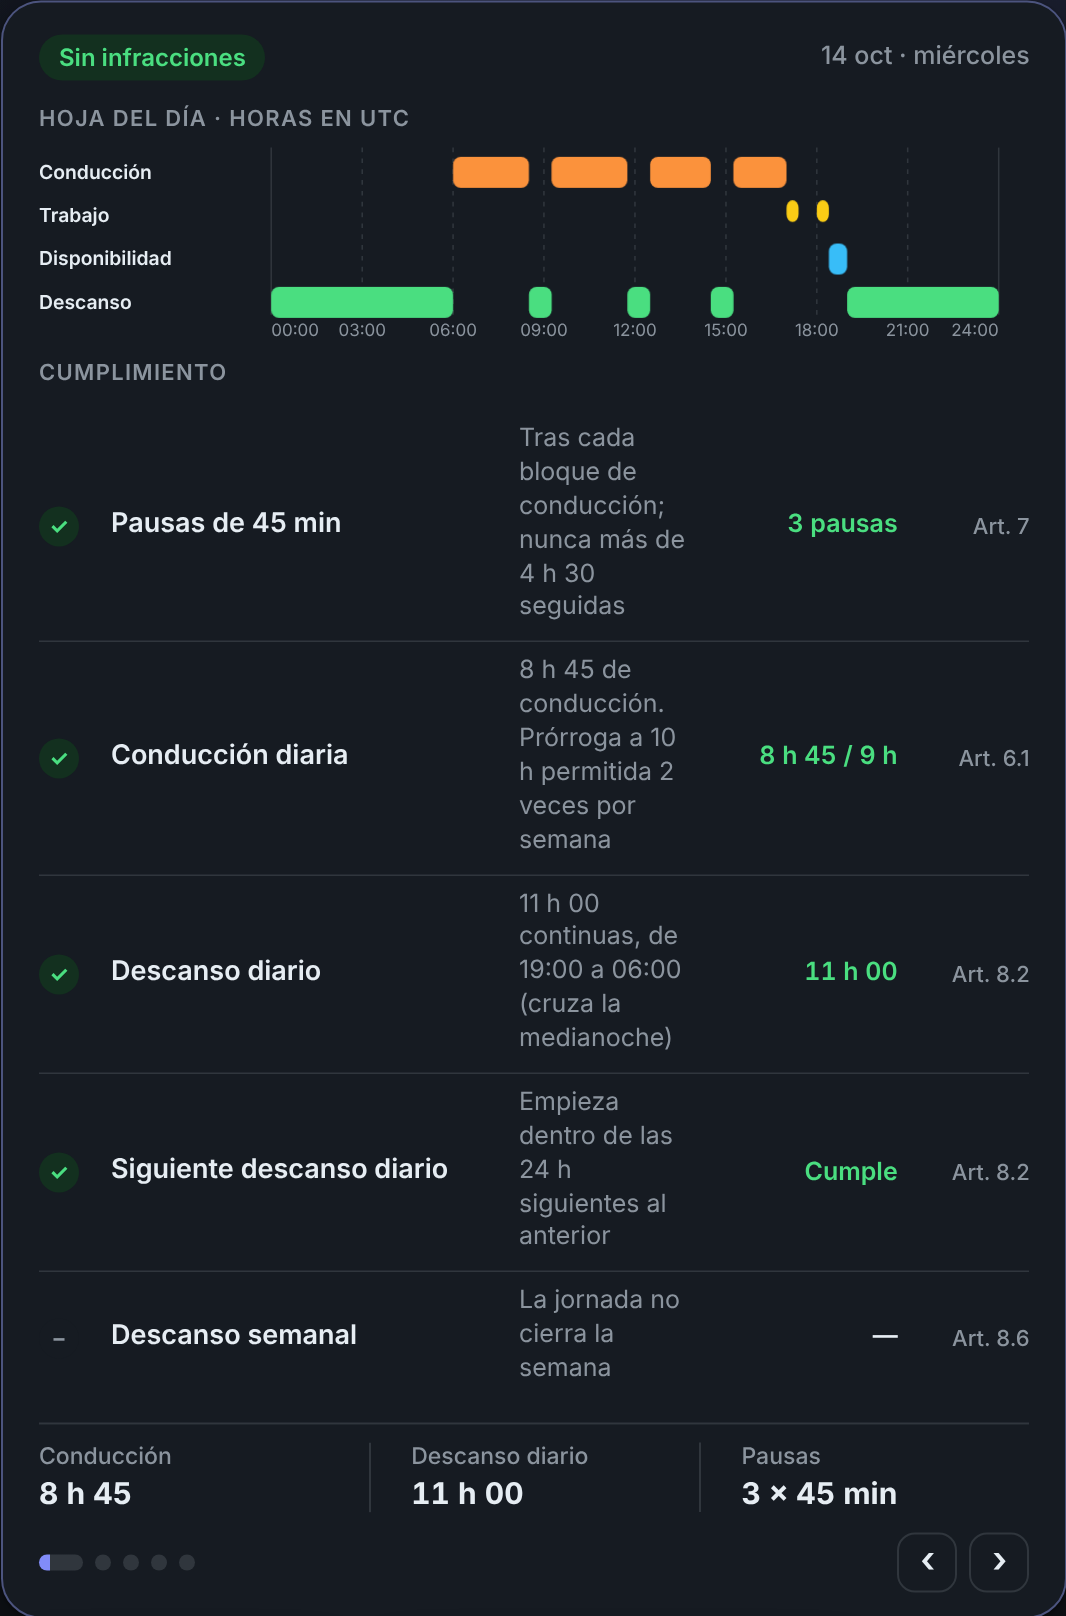
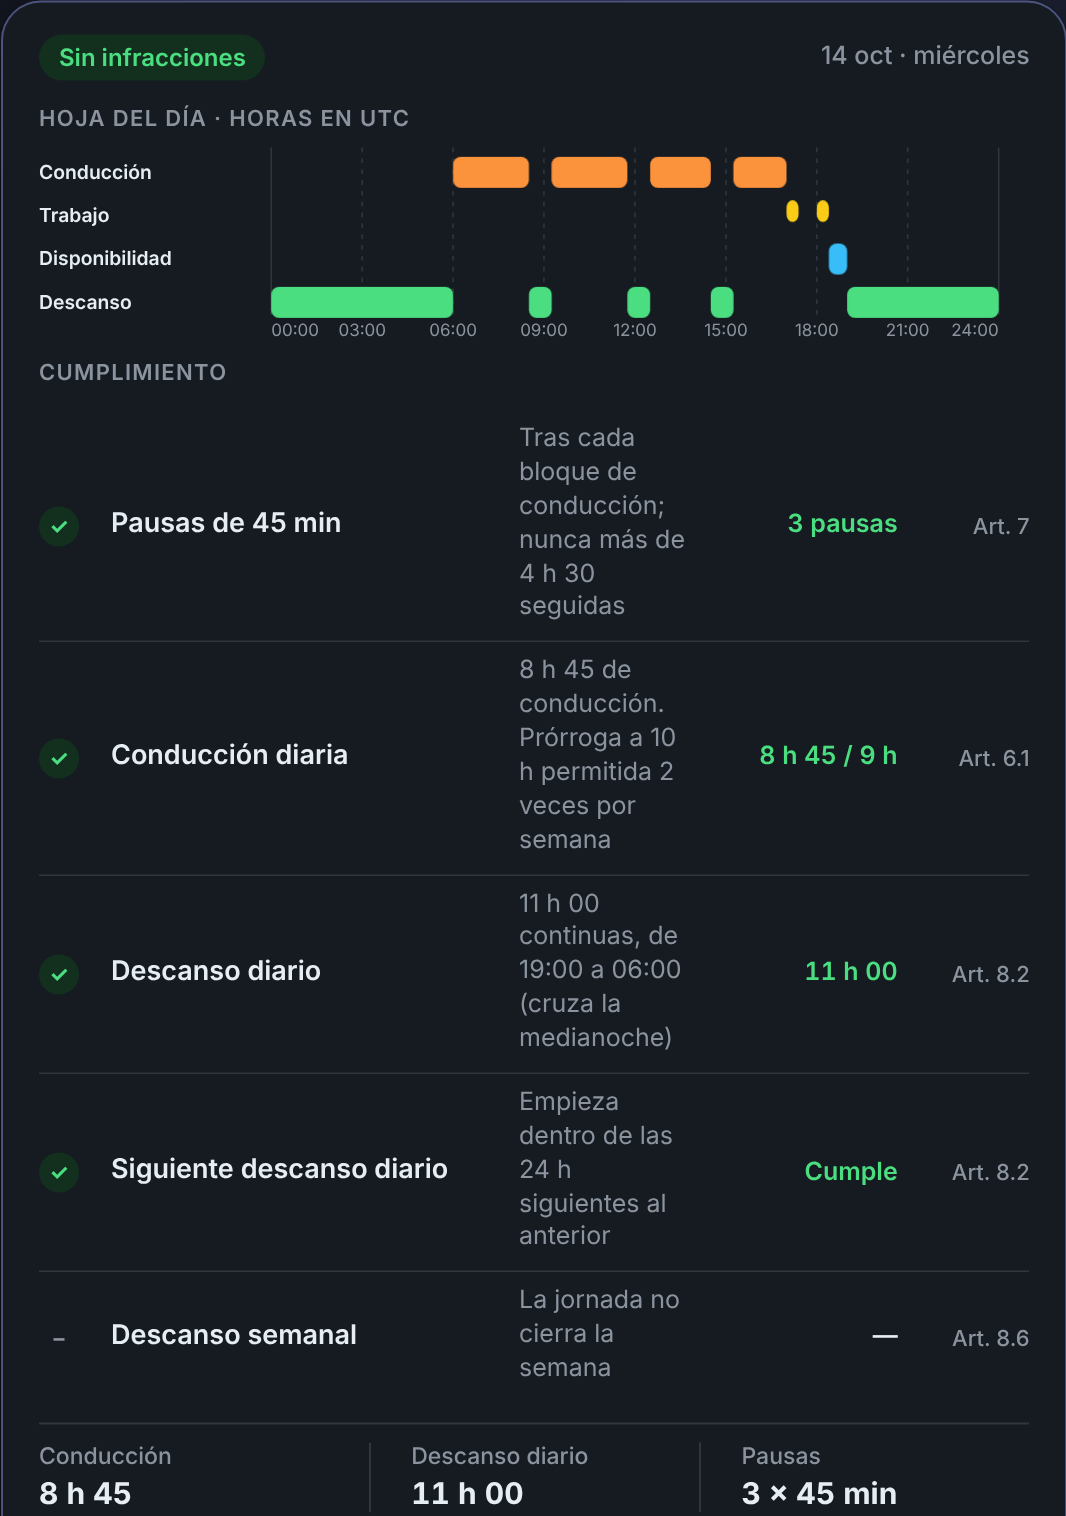
TachoRead carousel: auto-advance, dots, one set of controls
Claude-Session: https://claude.ai/code/session_01Bq1qWqzMotHaTZQRDtgZMv

diff --git a/src/styles/global.css b/src/styles/global.css
@@ -624,3 +624,11 @@ a.project-card { color: inherit; text-decoration: none; }
 .device-carousel .shots-track { height: auto; max-width: 420px; margin: 0 auto; background: none; align-items: flex-start; }
 .device-carousel .shots-track img { flex: 0 0 100%; width: 100%; height: auto; padding: 0; object-fit: initial; border-radius: 16px; box-shadow: 0 30px 60px -30px #000d; background: none; }
 .device-carousel .shots-nav { background: none; border: 0; justify-content: center; padding: 16px 0 0; }
+
+/* Controles del carrusel: una sola fila de flechas y puntos */
+.device-carousel .shots-nav { display: flex; align-items: center; justify-content: center; gap: 14px; padding: 14px 0 0; border: 0; background: none; }
+.shots-dots { display: flex; gap: 8px; }
+.shots-dots button { width: 8px; height: 8px; padding: 0; border: 0; border-radius: 999px; background: #ffffff33; cursor: pointer; transition: width .4s var(--ease-out-soft), background-color .4s; }
+.shots-dots button.on { width: 22px; background: var(--tone, #ffb000); }
+.device-carousel .shots-nav .shots-dots button { width: 8px; height: 8px; min-width: 8px; padding: 0; border: 0; border-radius: 999px; background: #ffffff33; }
+.device-carousel .shots-nav .shots-dots button.on { width: 22px; background: var(--tone, #ffb000); }
